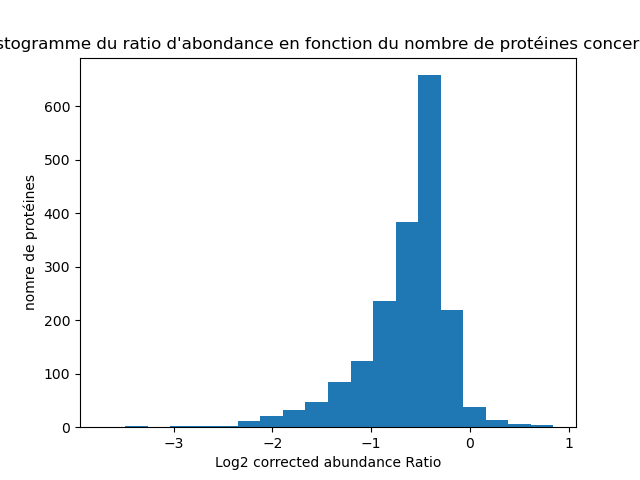
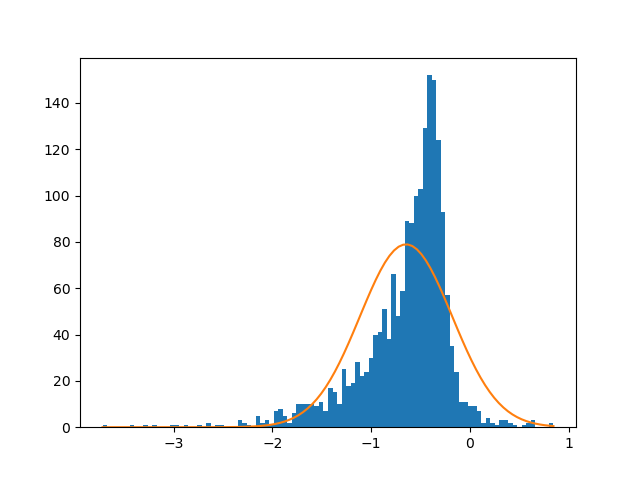
ajout histogramme

diff --git a/README.md b/README.md
@@ -248,10 +248,8 @@ df.loc[ df['Gene Symbol'].isin(['fadR', 'arcA'] ) ]
 
 ##### 3. A partir de cette échantillon de ratio d'abondance,  estimez la moyenne $\mu$ et l'ecart-type $\sigma$ d'une loi normale.
 ```
-print(plt.hist(df.iloc[::,4],bins=20))
-
-
-
+np.mean(abondance) #-0.6467130248461945
+np.std(abondance) #0.46711093152335265
 ```
 
 ##### 4. Superposez la densité de probabilité de cette loi sur l'histogramme. Attention, la densité de probabilité devra être mis à l'echelle de l'histogramme (cf ci-dessous)
